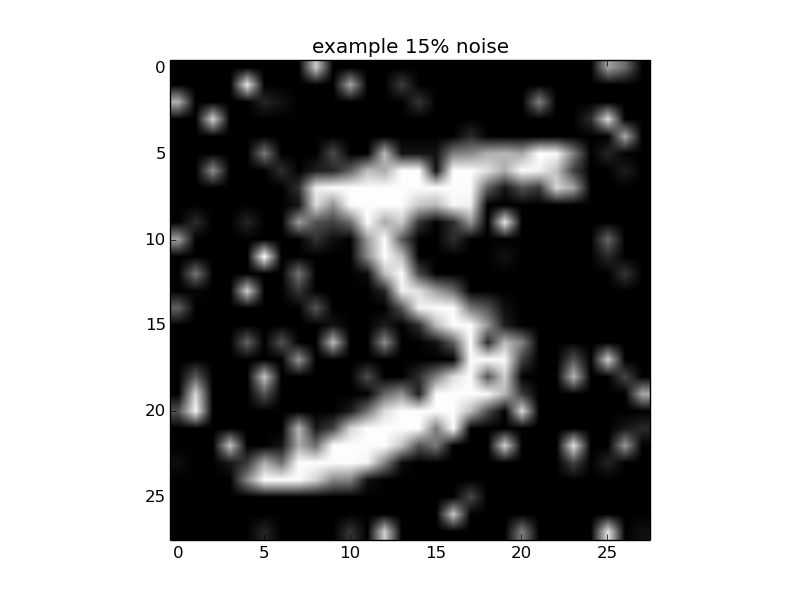
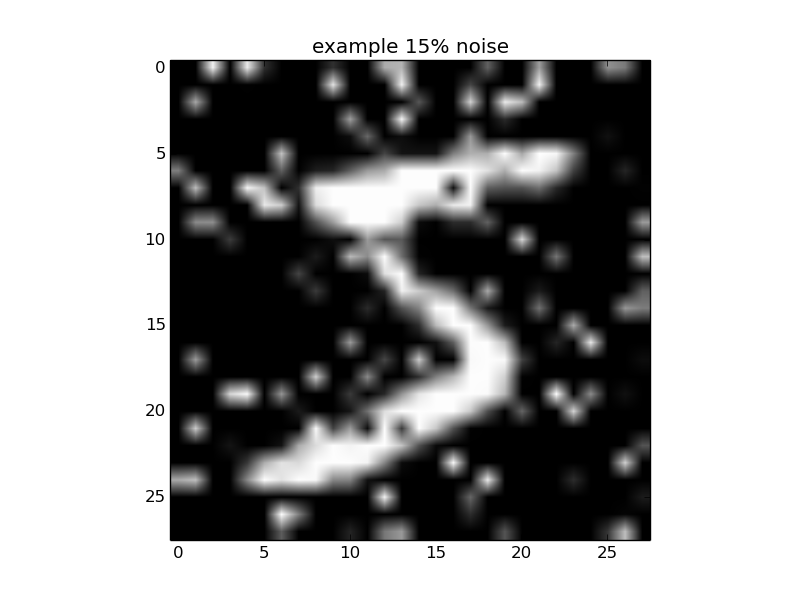
fix: 結果保存を整えた

Changed region(s): [[0.1875, 0.09, 0.8125, 0.9], [0.7188, 0.15, 0.8125, 0.27], [0.7188, 0.84, 0.8125, 0.9]]

diff --git a/util.py b/util.py
@@ -1,4 +1,6 @@
 import os
+import csv
+import argparse
 
 import numpy as np
 import matplotlib.pyplot as plt
@@ -19,13 +21,23 @@ def softmax_cross_entropy(y, t):
   return cross_entropy(softmax(y), t)
 
 
-def getMNIST(file_name):
+def getArgs():
+  parser = argparse.ArgumentParser()
+  parser.add_argument('--name', '-nm', default='example', help='the name of trial')
+  parser.add_argument('--noise', '-ns', default=0, type=int, help='the probability of noise [%]')
+  return parser.parse_args()
+
+
+def getMNIST(noise):
   train_img = np.zeros((60000, 1 * 28 * 28), dtype=np.float32)
   train_label = np.zeros(60000, dtype=np.int32)
   test_img = np.zeros((10000, 1 * 28 * 28), dtype=np.float32)
   test_label = np.zeros(10000, dtype=np.int32)
 
-  dataset = pickle.load(open(os.path.join('data', file_name)))
+  if noise == 0:
+    dataset = pickle.load(open(os.path.join('data', 'mnist.pkl')))
+  else:
+    dataset = pickle.load(open(os.path.join('data', 'mnist_noise_' + str(noise) + '.pkl')))
 
   train_img = dataset['train_img']
   train_label = dataset['train_label']
@@ -34,8 +46,31 @@ def getMNIST(file_name):
   return (train_img, train_label), (test_img, test_label)
 
 
+def saveResult(name, train, test, time):
+  path = os.path.join('result', 'result.csv')
+  if not os.path.exists(path):
+    with open(path, 'a') as f:
+      writer = csv.writer(f)
+      writer.writerows([['trial name', 'train acc', 'train loss', 'test acc', 'test loss',
+                         'time']])
+  with open(path, 'a') as f:
+    writer = csv.writer(f)
+    writer.writerows([[name.replace('_', ' '), train[0], train[1], test[0], test[1], time]])
+
+
+def plotResult(name, epoch, train, test, time):
+  if not os.path.exists(os.path.join('result', name)):
+    os.makedirs(os.path.join('result', name))
+  saveResult(name, (train[0][-1], train[1][-1]), (test[0][-1], test[1][-1]), time[-1])
+  plotAccuracy(name, epoch, train[0])
+  plotAccuracy(name, epoch, test[0])
+  plotLoss(name, epoch, train[1])
+  plotLoss(name, epoch, test[1])
+  plotTime(name, epoch, time)
+
+
 def plotAccuracy(name, epoch, data):
-  plt.title(name + ' accuracy')
+  plt.title(('test' if epoch == len(data) else 'train') + ' accuracy')
   plt.xlabel('epoch')
   plt.ylabel('accuracy')
   plt.xlim([1, epoch])
@@ -44,7 +79,34 @@ def plotAccuracy(name, epoch, data):
   plt.plot(np.linspace(1, epoch, len(data)), data, 'ro-' if epoch == len(data) else 'r-')
   plt.axhline(y=data[-1], color='black', linestyle='--')
   plt.text(1.01, data[-1] + 0.01, str(data[-1]))
-  if not os.path.exists('picture'):
-    os.makedirs('picture')
-  plt.savefig(os.path.join('picture', name + '_accuracy.jpg'))
+  plt.savefig(
+      os.path.join('result', name, ('test' if epoch == len(data) else 'train') + '_accuracy.jpg'))
+  plt.clf()
+
+
+def plotLoss(name, epoch, data):
+  plt.title(('test' if epoch == len(data) else 'train') + ' loss')
+  plt.xlabel('epoch')
+  plt.ylabel('accuracy')
+  plt.xlim([1, epoch])
+  plt.ylim([0, 2.5])
+  plt.gca().get_xaxis().set_major_locator(ticker.MaxNLocator(integer=True))
+  plt.plot(np.linspace(1, epoch, len(data)), data, 'bo-' if epoch == len(data) else 'b-')
+  plt.axhline(y=data[-1], color='black', linestyle='--')
+  plt.text(1.01, data[-1] + 0.01, str(data[-1]))
+  plt.savefig(
+      os.path.join('result', name, ('test' if epoch == len(data) else 'train') + '_loss.jpg'))
+  plt.clf()
+
+
+def plotTime(name, epoch, data):
+  plt.title('elapsed time')
+  plt.xlabel('epoch')
+  plt.ylabel('time / s')
+  plt.xlim([1, epoch])
+  plt.gca().get_xaxis().set_major_locator(ticker.MaxNLocator(integer=True))
+  plt.plot(np.linspace(1, epoch, len(data)), data, 'ko-')
+  plt.axhline(y=data[-1], color='black', linestyle='--')
+  plt.text(1.01, data[-1] + 0.01, str(data[-1]))
+  plt.savefig(os.path.join('result', name, 'time.jpg'))
   plt.clf()

diff --git a/main.py b/main.py
@@ -1,43 +1,43 @@
 import time
-import os
 
 import numpy as np
-import matplotlib.pyplot as plt
-import matplotlib.ticker as ticker
 
 from model import *
-from util import getMNIST, plotAccuracy
+from util import getArgs, getMNIST, plotResult
+
+
+def genClassifier():
+  model = Sequential()
+  model.addLayer(ConvolutionLayer(1, 4))
+  model.addLayer(ReLULayer())
+  model.addLayer(AvgPoolingLayer(4))
+  model.addLayer(FlattenLayer())
+  model.addLayer(LinearLayer(7 * 7 * 4, 10))
+  return Classifier(model)
+
 
 if __name__ == '__main__':
-  model = Sequential()
-  model.addLayer(ConvolutionLayer(1, 16))
-  model.addLayer(ReLULayer())
-  model.addLayer(ConvolutionLayer(16, 16))
-  model.addLayer(ReLULayer())
-  model.addLayer(MaxPoolingLayer(2))
-  model.addLayer(ReLULayer())
-  model.addLayer(ConvolutionLayer(16, 32))
-  model.addLayer(ReLULayer())
-  model.addLayer(ConvolutionLayer(32, 32))
-  model.addLayer(ReLULayer())
-  model.addLayer(AvgPoolingLayer(2))
-  model.addLayer(FlattenLayer())
-  model.addLayer(LinearLayer(7 * 7 * 32, 10))
-  classifier = Classifier(model)
+  args = getArgs()
 
-  train, test = getMNIST('mnist.pkl')
+  trial_name = args.name if args.noise == 0 else args.name + '_' + str(args.noise) + '%_noise'
 
+  classifier = genClassifier()
+
+  train, test = getMNIST(args.noise)
+
+  epoch_time = [0]
   train_acc = []
   test_acc = []
   train_loss = []
   test_loss = []
 
   batchsize = 100  # 100
-  n_train = 600  # 60000
-  n_test = 100  # 10000
+  n_train = 60000  # 60000
+  n_test = 10000  # 10000
   epoch = 5
 
   for e in range(1, epoch + 1):
+    epoch_start = time.time()
     randinds = np.random.permutation(n_train)
     for it in range(0, n_train, batchsize):
       ind = randinds[it:it + batchsize]
@@ -50,6 +50,7 @@ if __name__ == '__main__':
       train_loss.append(loss)
       print('[train] epoch %d, iteration %d, elapsed time %f, loss %f, acc %f' %
             (e, it // batchsize, end - start, loss, acc))
+    epoch_time.append(epoch_time[-1] + time.time() - epoch_start)
 
     start = time.time()
     acc_ave = 0
@@ -68,5 +69,4 @@ if __name__ == '__main__':
     print('[test] epoch %d, elapsed time %f, loss %f, acc %f' %
           (e, end - start, loss_ave, acc_ave))
 
-  plotAccuracy('mini_train', epoch, train_acc)
-  plotAccuracy('mini_test', epoch, test_acc)
+  plotResult(trial_name, epoch, (train_acc, train_loss), (test_acc, test_loss), epoch_time[1:])

diff --git a/mnist_download.py b/mnist_download.py
@@ -37,7 +37,7 @@ def attachNoise(p, data):
       np.random.uniform(0, 1, data.size).reshape(-1, 1, 28, 28), data)
 
 
-def makeDataset():
+def genDataset():
   dataset = {}
   dataset['train_img'] = loadData(key_file['train_img'], 16).reshape(-1, 1, 28, 28).astype(
       np.float32) / 255
@@ -80,7 +80,7 @@ def savePickle(file_name, dataset):
 if __name__ == '__main__':
   downloadZip()
 
-  dataset = makeDataset()
+  dataset = genDataset()
   showExample('example', dataset)
   savePickle('mnist.pkl', dataset)
 
